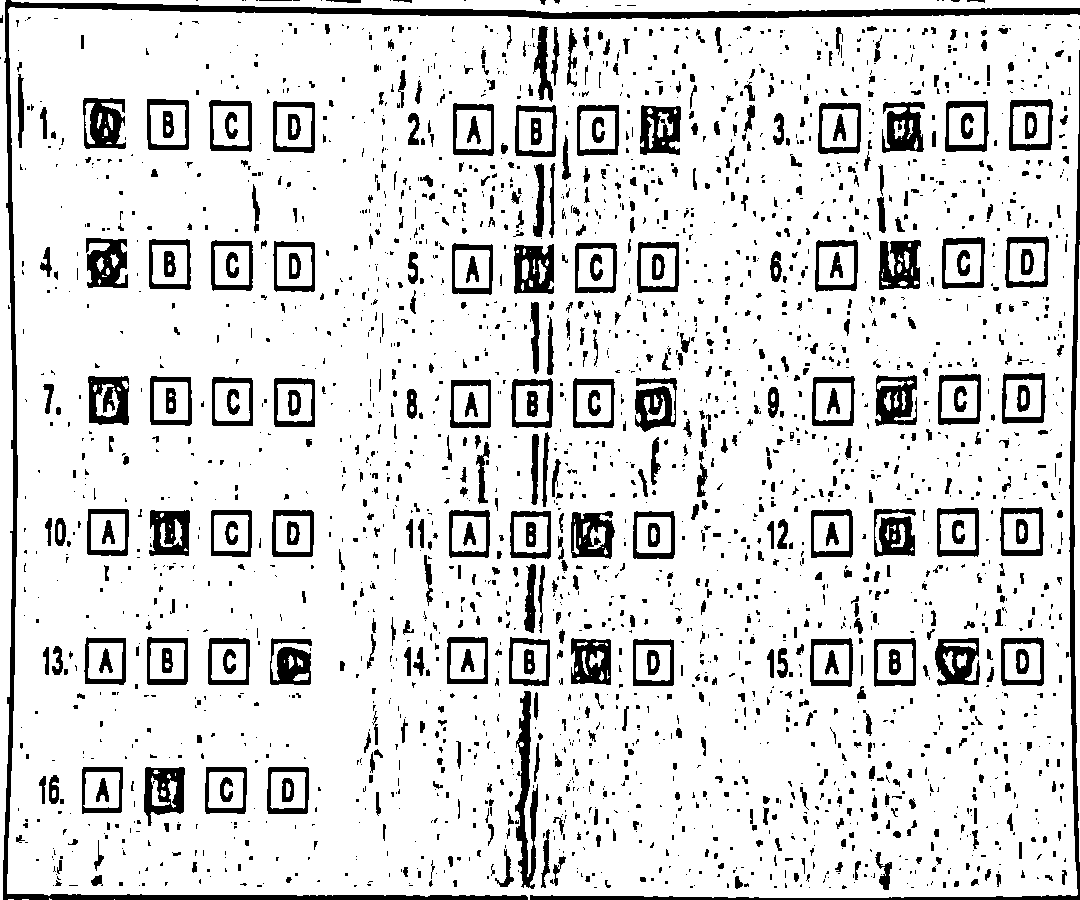
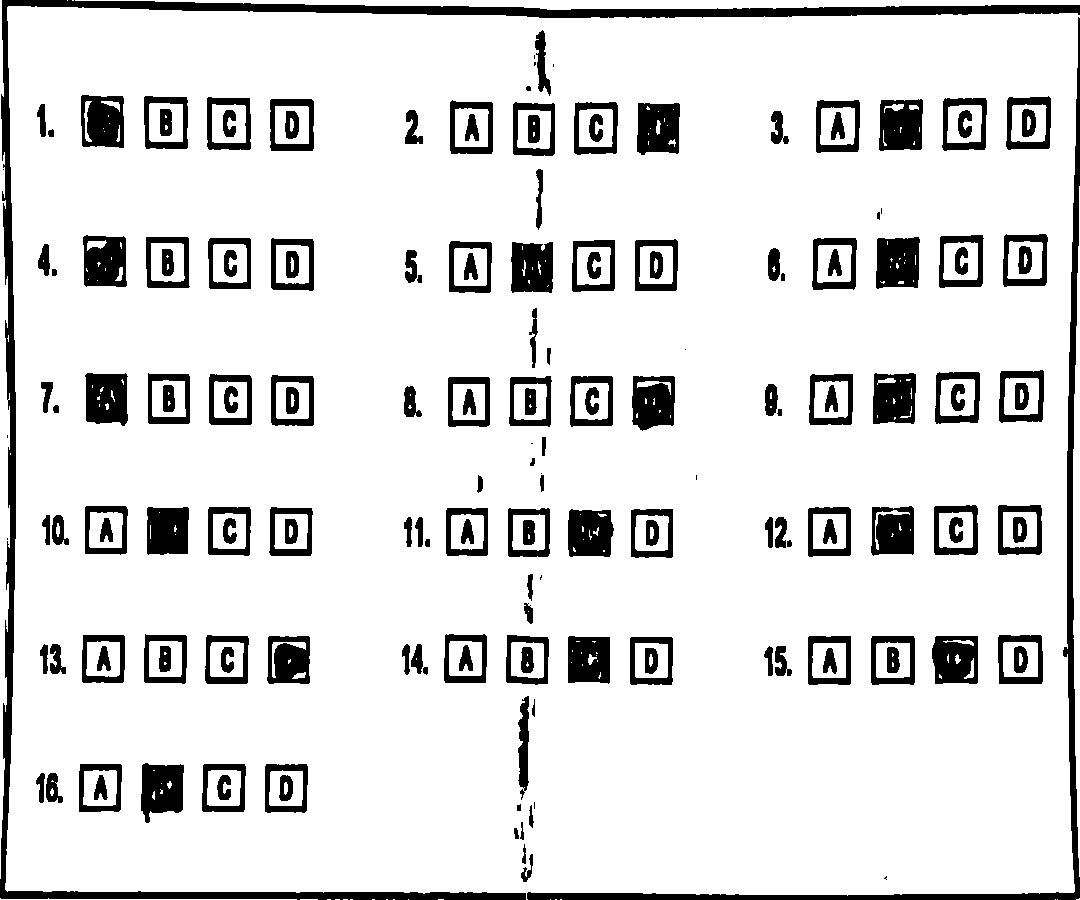
0007 0006 无法正确识别内部轮廓

diff --git a/answer-sheet-scan/sheet.py b/answer-sheet-scan/sheet.py
@@ -52,20 +52,25 @@ def brightness(im_file):
     return stat.mean[0]
 def get_answer_from_sheet(base_img):
 
-    os.path.exists(os.path.curdir)
+    filepath,tempfilename = os.path.split(base_img);
+    file_name,_ = os.path.splitext(tempfilename)
+    obj_dir = os.path.curdir + "/img/new/"+ file_name
+    if not os.path.exists(obj_dir):
+        os.makedirs(obj_dir) 
+    base_img = cv2.imread(base_img);
     #保存最原始图片
-    cv2.imwrite('origin.png', base_img)
+    cv2.imwrite(obj_dir+"/"+'origin.png', base_img)
     # 灰度化然后进行边缘检测、二值化等等一系列处理
     img = cv2.cvtColor(base_img, cv2.COLOR_BGR2GRAY)
     img = get_init_process_img(img)
     #写入图片
-    cv2.imwrite('process-0.png', img)
+    cv2.imwrite(obj_dir+"/"+'process-0.png',img)
     # 获取最大面积轮廓并和图片大小作比较，看轮廓周长大小判断是否是答题卡的轮廓
     cnt = get_max_area_cnt(img)
     cnt_perimeter = cv2.arcLength(cnt, True)
     cv2.drawContours(base_img, [cnt], 0, (0, 255, 0), 1)
     #画边框
-    cv2.imwrite('green_border.png', base_img)    
+    cv2.imwrite(obj_dir+"/"+'green_border.png', base_img)    
     base_img_perimeter = (base_img.shape[0] + base_img.shape[1]) * 2
     if not cnt_perimeter > settings.CNT_PERIMETER_THRESHOLD * base_img_perimeter:
         print "边缘丢失"
@@ -78,26 +83,29 @@ def get_answer_from_sheet(base_img):
     processed_img = detect_cnt_again(poly_node_list, base_img)
     #保存纠正图片
     wait_draw = processed_img.copy()
-    cv2.imwrite('correct-position.png', processed_img)
+    cv2.imwrite(obj_dir+"/"+'correct-position.png', processed_img)
     # 调整图片的亮度
     processed_img = get_bright_process_img(processed_img)
-    cv2.imwrite('brighten.png', processed_img)
-
+    cv2.imwrite(obj_dir+"/"+'brighten.png', processed_img)
+    
+    #processed_img = processed_img[processed_img[1]+20:(processed_img[1] + processed_img[3]-20), processed_img[0]+20:(processed_img[0] + processed_img[2]-20)]
     # 通过二值化和膨胀腐蚀获得填涂区域
     #ans_img = cv2.adaptiveThreshold(processed_img,255,cv2.ADAPTIVE_THRESH_MEAN_C,cv2.THRESH_BINARY,35,2)  
     #ret, ans_img = cv2.threshold(processed_img,0,255,cv2.THRESH_BINARY+cv2.THRESH_OTSU) #新的方法  
-    ans_img = cv2.dilate(processed_img, settings.ANS_IMG_KERNEL, iterations=settings.ANS_IMG_DILATE_ITERATIONS)
-    ans_img = cv2.erode(ans_img, settings.ANS_IMG_KERNEL, iterations=settings.ANS_IMG_ERODE_ITERATIONS)
-    ans_img = cv2.adaptiveThreshold(ans_img,255,cv2.ADAPTIVE_THRESH_GAUSSIAN_C,cv2.THRESH_BINARY,15,1)  
-    cv2.imwrite('answer_area.png', ans_img)
+    #ans_img = cv2.dilate(processed_img, settings.ANS_IMG_KERNEL, iterations=settings.ANS_IMG_DILATE_ITERATIONS)
+    ans_img = cv2.erode(processed_img, settings.ANS_IMG_KERNEL, iterations=settings.ANS_IMG_ERODE_ITERATIONS) 
+    ans_img = cv2.adaptiveThreshold(ans_img,255,cv2.ADAPTIVE_THRESH_GAUSSIAN_C,cv2.THRESH_BINARY,45,1) 
+    cv2.imwrite(obj_dir+"/"+'answer_area.png', ans_img)
     
     # 通过二值化和膨胀腐蚀获得选项框区域
     #choice_img = cv2.adaptiveThreshold(processed_img,255,cv2.ADAPTIVE_THRESH_MEAN_C,cv2.THRESH_BINARY_INV,35,2) 
     #ret, choice_img = cv2.threshold(processed_img,0,255,cv2.THRESH_BINARY_INV+cv2.THRESH_OTSU)#新方法
-    choice_img = cv2.dilate(processed_img, settings.CHOICE_IMG_KERNEL, iterations=settings.CHOICE_IMG_DILATE_ITERATIONS)
-    choice_img = cv2.erode(choice_img, settings.CHOICE_IMG_KERNEL, iterations=settings.CHOICE_IMG_ERODE_ITERATIONS)
-    choice_img = cv2.adaptiveThreshold(choice_img,255,cv2.ADAPTIVE_THRESH_GAUSSIAN_C,cv2.THRESH_BINARY_INV,15,1)
-    cv2.imwrite('choice_area.png', choice_img)
+    #choice_img = cv2.dilate(processed_img, settings.CHOICE_IMG_KERNEL, iterations=settings.CHOICE_IMG_DILATE_ITERATIONS)
+    choice_img = cv2.erode(processed_img, settings.CHOICE_IMG_KERNEL, iterations=settings.CHOICE_IMG_ERODE_ITERATIONS)
+    choice_img = cv2.adaptiveThreshold(processed_img,255,cv2.ADAPTIVE_THRESH_MEAN_C,cv2.THRESH_BINARY_INV,21,2)
+    #choice_img = cv2.morphologyEx(choice_img,cv2.MORPH_GRADIENT,settings.ANS_IMG_KERNEL)
+   
+    cv2.imwrite(obj_dir+"/"+'choice_area.png', choice_img)
     #cv2.waitKey(0)
     
     # 查找选项框以及前面题号的轮廓
@@ -116,13 +124,13 @@ def get_answer_from_sheet(base_img):
         if CHOICE_MIN_AREA < cnts_areas[i]< CHOICE_MAX_AREA \
             and ((w/h<=1 and h/w <2) or (w/h>1 and w/h <2)):
             question_cnts.append(c)
-            print "%d %d" %(w,h)
+        print "%d %d" %(w,h)
             
         
     cv2.drawContours(wait_draw, question_cnts, -1, (0, 0, 255), 1)
     cv2.imshow("img", wait_draw)  
     cv2.waitKey(0)
-    cv2.imwrite('wait_draw5.png', wait_draw)
+    cv2.imwrite(obj_dir+"/"+'wait_draw5.png', wait_draw)
     cv2.waitKey(0)    
     
     if len(question_cnts) != settings.CHOICE_CNT_COUNT:

diff --git a/answer-sheet-scan/settings.py b/answer-sheet-scan/settings.py
@@ -11,7 +11,7 @@ CHOICE_COL_COUNT = 12
 CHOICES_PER_QUE = 4
 
 # 每个选项框里面白色点所占比例阈值，小于则说明该选项框可能被填涂
-WHITE_RATIO_PER_CHOICE = 0.4 #0.84
+WHITE_RATIO_PER_CHOICE = 0.3 #0.84
 
 # 受限于环境，光源较差的情况下或腐蚀膨胀参数设置不对，
 # 可能会有误判，这个参数这是比较两个都被识别为涂写的选项框是否有误判的阈值
@@ -21,31 +21,31 @@ MAYBE_MULTI_CHOICE_THRESHOLD = 0.07
 CNT_PERIMETER_THRESHOLD = 0.3
 
 # 答题卡框面积阈值
-SHEET_AREA_MIN_RATIO = 0.3
+SHEET_AREA_MIN_RATIO = 0.5
 
 # 识别所涂写区域时的二值化参数
 ANS_IMG_THRESHOLD = (109, 255) #之前是 80
 
 # 识别所涂写区域时的膨胀参数
-ANS_IMG_DILATE_ITERATIONS = 1
+ANS_IMG_DILATE_ITERATIONS = 2
 
 # 识别所涂写区域时的腐蚀参数
 ANS_IMG_ERODE_ITERATIONS = 1
 
 # 识别所涂写区域时的膨胀腐蚀的kernel
-ANS_IMG_KERNEL = np.ones((2, 2), np.uint8)
+ANS_IMG_KERNEL = np.ones((3, 3), np.uint8)
 
 # 识别所有选项框区域时的二值化参数
 CHOICE_IMG_THRESHOLD = (100, 300)
 
 # 识别所有选项框区域时的膨胀参数
-CHOICE_IMG_DILATE_ITERATIONS = 1
+CHOICE_IMG_DILATE_ITERATIONS = 2
 
 # 识别所有选项框区域时的腐蚀参数
-CHOICE_IMG_ERODE_ITERATIONS = 1
+CHOICE_IMG_ERODE_ITERATIONS = 4
 
 # 识别所有选项框区域时的膨胀腐蚀的kernel
-CHOICE_IMG_KERNEL = np.ones((2, 2), np.uint8)
+CHOICE_IMG_KERNEL = np.ones((4, 4), np.uint8)
 
 # 选项框面积的阈值，超过则认为这个轮廓不是选项框
 CHOICE_MAX_AREA = 6000
@@ -54,7 +54,7 @@ CHOICE_MAX_AREA = 6000
 CHOICE_MIN_AREA = 4500
 
 # 总共选项框 + 题号的个数，例如一行3题，总共20列，所以有3 * 20 * 4 + 3 * 20
-CHOICE_CNT_COUNT = 160
+CHOICE_CNT_COUNT = 64
 
 # 调整亮度的竖向分块数目
 PROCESS_BRIGHT_COLS = 18

diff --git a/answer-sheet-scan/test_sheet.py b/answer-sheet-scan/test_sheet.py
@@ -1,12 +1,13 @@
 from sheet import get_answer_from_sheet
-import cv2,math
+import cv2,math,os
 
 import time
 
 start = time.clock()
 
-base_img = cv2.imread('img/new/0004.jpg')
-get_answer_from_sheet(base_img)
+image_name = "0010.jpg"; ##0006 0007 
+
+get_answer_from_sheet("img/new/"+image_name);
 end = time.clock()
 print "get_answer_from_sheet: %f s" % (end - start)
 

diff --git a/answer-sheet-scan/utils.py b/answer-sheet-scan/utils.py
@@ -70,6 +70,7 @@ def detect_cnt_again(poly, base_img):
         img_warp = cv2.warpPerspective(roi_img, transmtx, (base_img.shape[1], base_img.shape[0]))
     else:
         img_warp = cv2.warpPerspective(base_img, transmtx, (base_img.shape[1], base_img.shape[0]))
+    
     return img_warp
 
 

diff --git a/answer-sheet-scan/main.py b/answer-sheet-scan/main.py
@@ -1,7 +1,6 @@
-import cv2,sys
+import cv2,sys,os
 from sheet import get_answer_from_sheet
 import settings
-
 
 if len(sys.argv) == 5:
     global CHOICES_PER_QUE,CHOICE_COL_COUNT,CHOICE_CNT_COUNT
